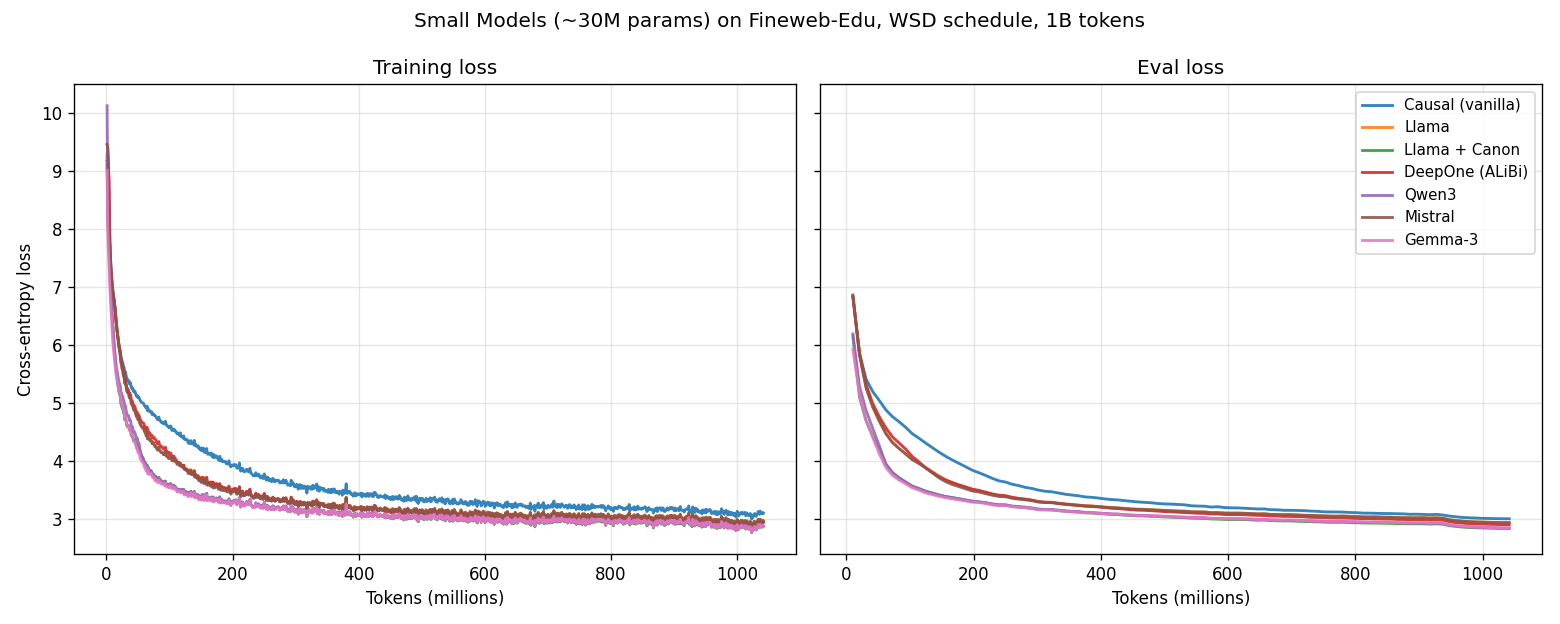
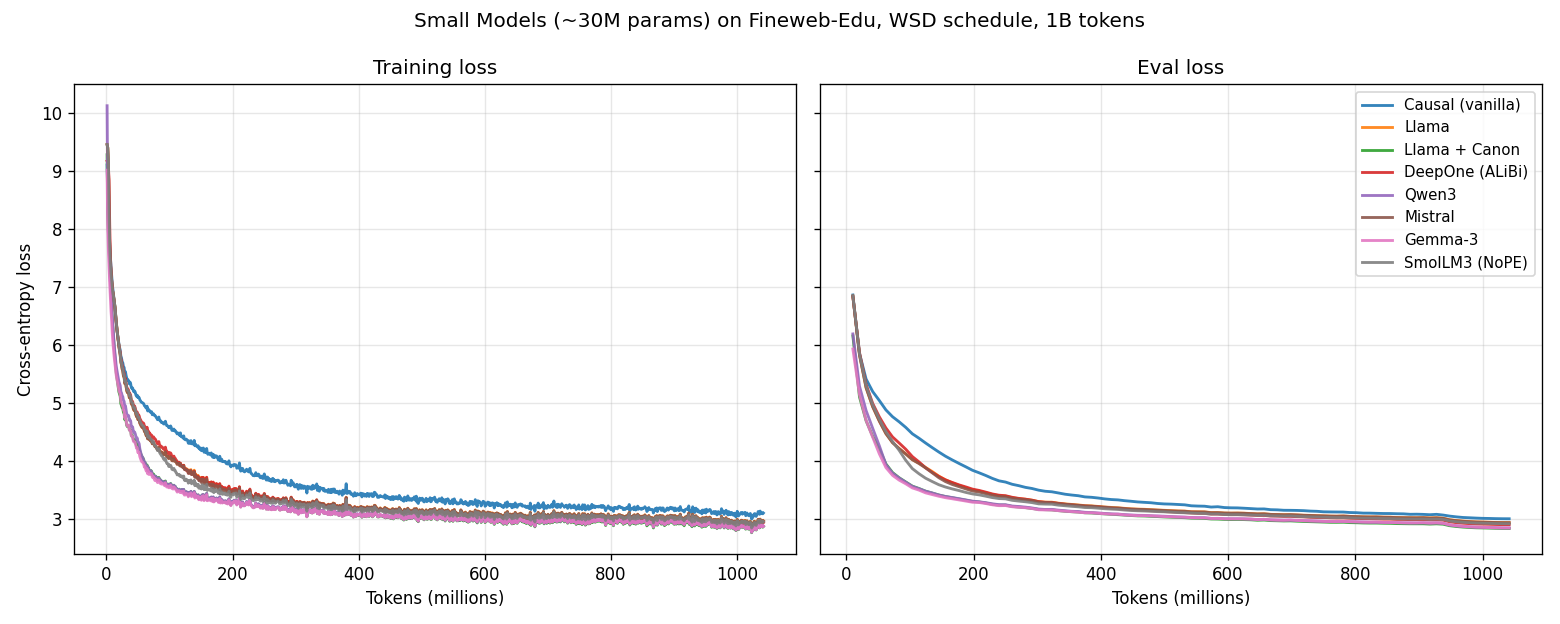
small_models: add SmolLM3 (NoPE) results — best eval 2.919, MFU 21.6%
small_smollm3 completed the full 1B-token run. Regenerate the comparison
plots (now 8 architectures) and fill in the results table + analysis:

- SmolLM3 (NoPE) lands mid-pack at best eval 2.919, edging out the plain Llama
  baseline (2.939) at the same ~21% MFU. NoPE's headline benefit is length
  generalization, which the 4096-token regime can't exercise, so the result is
  the gentler one: position-free layers cost nothing in short-context quality
  and shave a little off the loss.
- Update the seven->eight counts and the stability note (all eight complete the
  budget with the grad-clip guard).

diff --git a/examples/tiny_experiments/small_models/README.md b/examples/tiny_experiments/small_models/README.md
@@ -114,7 +114,7 @@ python assets/generate_plots.py
 
 ## Experimental results
 
-All seven configs were trained under an identical recipe — 1B tokens of
+All eight configs were trained under an identical recipe — 1B tokens of
 Fineweb-Edu, `seq_len` 4096, per-device batch 8, the WSD schedule (warmup 50M,
 constant LR `~2.1e-4`, anneal over the final 100M), AdamW, gradient clipping at
 3.0, `flex_attention` + `torch.compile` — one GPU each, scheduled across the
@@ -138,6 +138,7 @@ tokens:
 | `small_qwen3` | 2.846 | 2.878 | 20.3% | QK-norm, GQA, tied |
 | `small_gemma3` | 2.846 | 2.878 | **22.8%** | best loss/throughput trade-off |
 | `small_deepone` | 2.903 | 2.936 | 13.3% | post-LN + ALiBi |
+| `small_smollm3` | 2.919 | 2.951 | 21.6% | Llama + NoPE (no RoPE every 4th layer) |
 | `small_mistral` | 2.936 | 2.965 | 22.4% | sliding-window |
 | `small_llama` | 2.939 | 2.969 | 21.1% | pre-LN RoPE baseline |
 | `small_causal` | 3.004 | 3.103 | 19.9% | vanilla (learned PE, no GLU) |
@@ -171,6 +172,13 @@ tokens:
   post-LN + DeepNet design let grad-norm creep into the ~1.8–2.6 band mid-run,
   but the clip guard plus the WSD LR decay brought it home without divergence.
 
+- **SmolLM3's NoPE is a mild net positive here** (2.919). Dropping RoPE from
+  every 4th layer edges out the plain Llama baseline (`small_llama`, 2.939) at
+  the same throughput (~21.6% vs 21.1% MFU). NoPE's headline benefit is *length
+  generalization*, which a 4096-token regime can't exercise — so the takeaway is
+  the gentler one: the position-free layers cost nothing in short-context quality
+  and shave a little off the loss, consistent with the SmolLM3 design rationale.
+
 ### A note on stability (gradient clipping)
 
 The base `small` template ships with no gradient clipping. On the first attempt,
@@ -179,7 +187,7 @@ gradient spike (grad-norm ~39 vs the normal <2) that, unclipped, blew up the
 weights and tripped the divergence detector. Several other models spiked at the
 same batch but rode through it. Adding `max_grad_norm: 3.0` to the project (just
 above the healthy grad-norm band, read off the TensorBoard plot) defuses the
-spike while leaving normal training untouched; with it, all seven complete the
+spike while leaving normal training untouched; with it, all eight complete the
 full 1B-token budget. This is a good illustration of why a loose gradient clip
 is cheap insurance for small-model pretraining even when the median step looks
 perfectly stable.
